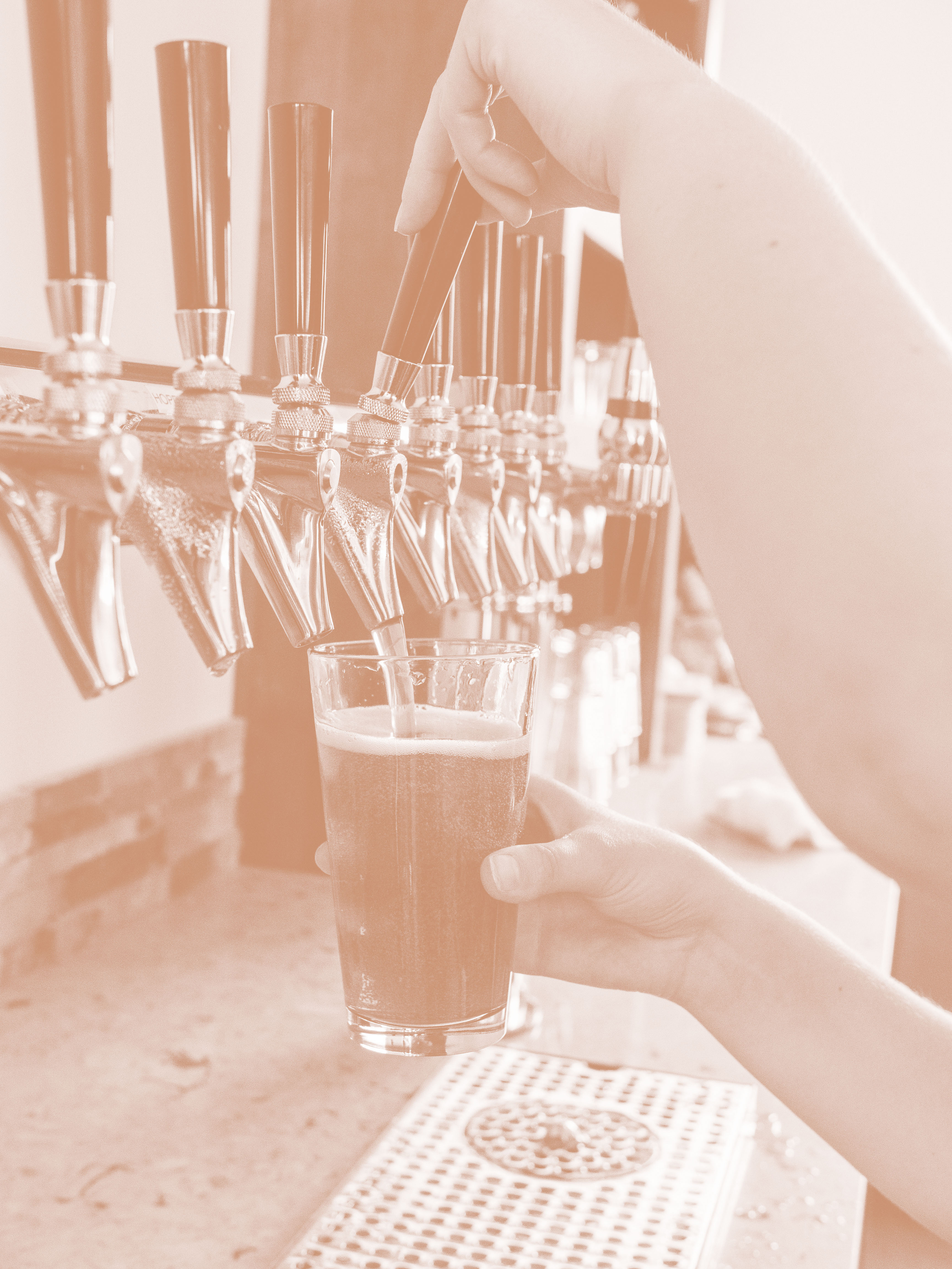
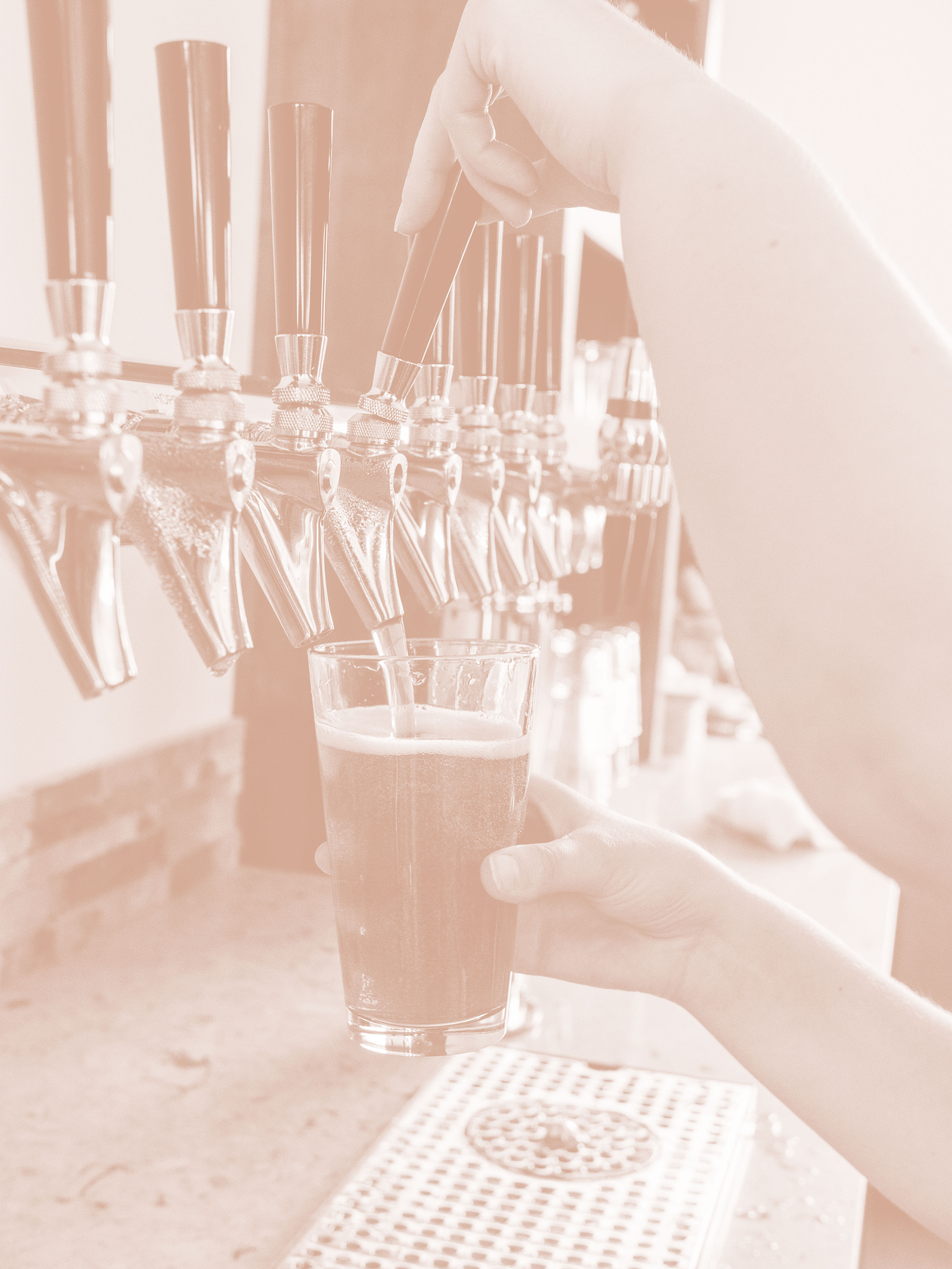
clean up files for deployment

diff --git a/js/script.js b/js/script.js
@@ -13,17 +13,16 @@ const $main = $('main');
 const $name = $('#name');
 const $address = $('#address');
 const $city = $('#city');
-const $type = $('#type');
+//const $type = $('#type');
 const $input = $('#input');
 const $submit = $('#submit');
 const $breweries = $('#breweries');
-const $modal = $('.modal');
 
 
 
 // Event listeners
 $submit.on('click', handleGetData);
-$breweries.on('click', 'article', handleClick);
+// $breweries.on('click', 'article', handleClick);
 
 
 
@@ -32,7 +31,7 @@ $breweries.on('click', 'article', handleClick);
 function handleGetData(event) {
     event.preventDefault();
     userInput = $input.val();
-    brewType = $type.val();
+    //brewType = $type.val();
     if(!userInput) return;
     // $.ajax(BASE_URL + userInput + '&by_type=' + brewType)
 
@@ -48,7 +47,9 @@ function handleGetData(event) {
         //     <h3 id="name">Sorry, can't find a brewery in this city. Try again. Maybe you should open one here?</h3>
         //     </article>
         //     `);
-        //     return
+        //     render();
+        //     $input.val('');
+
         // }
 
         render();
@@ -60,7 +61,7 @@ function handleGetData(event) {
 
 function generateUI() {
     return breweryInfo.map(function(brewery){
-        
+        // skip over listings that have no street address to not include breweries not open yet
         if(brewery.street){
         return `
             <article data-url="${brewery.url}" class="location">    
@@ -74,36 +75,36 @@ function generateUI() {
         
     }
 
-    function handleClick() {
-        console.log(this);
+    // function handleClick() {
+    //     console.log(this);
         
 
-        console.log('url: ,', breweryInfo);
+    //     console.log('url: ,', breweryInfo);
 
-        $modal.html(breweryInfo.map(function(brewery){
-            return `
-                <article data-url="${brewery.url}" class="location">    
-                <h3 id="name">${brewery.name}</h3>
-                <p id="address">${brewery.street}</p>
-                <p id="city">${brewery.city}</p>
-                </article>
-                `;
-            }));
-        // return breweryInfo.map(function(brewery){
-        //     return `
-        //     <p id="city">${brewery.city}</p>
-        //     `;
-        //     $modal.modal();
+    //     $modal.html(breweryInfo.map(function(brewery){
+    //         return `
+    //             <article data-url="${brewery.url}" class="location">    
+    //             <h3 id="name">${brewery.name}</h3>
+    //             <p id="address">${brewery.street}</p>
+    //             <p id="city">${brewery.city}</p>
+    //             </article>
+    //             `;
+    //         }));
+    //     // return breweryInfo.map(function(brewery){
+    //     //     return `
+    //     //     <p id="city">${brewery.city}</p>
+    //     //     `;
+    //     //     $modal.modal();
 
-            //$name.text(brewery.name);
-            //$moves.text(`Moves: ${pokemonDetail.moves.length}`);
-            //$abilities.text(`Abilities: ${pokemonDetail.abilities.length}`);
+    //         //$name.text(brewery.name);
+    //         //$moves.text(`Moves: ${pokemonDetail.moves.length}`);
+    //         //$abilities.text(`Abilities: ${pokemonDetail.abilities.length}`);
 
 
-           // });
-        //alert(url.brewery.name);
-        //handleGetData(url);
-    }
+    //        // });
+    //     //alert(url.brewery.name);
+    //     //handleGetData(url);
+    // }
         
     function render() {
         console.log('Brewery info: ', breweryInfo);

diff --git a/css/style.css b/css/style.css
@@ -1,3 +1,7 @@
+:root {
+    --light-copy-color: rgb(232, 213, 204);
+}
+
 * {
     box-sizing: border-box;
     margin: 0;
@@ -7,8 +11,7 @@ body {
     display: flex;
     flex-direction: column;
     height: 100vh;
-
-    font-family: 'Source Sans Pro', sans-serif; 
+    font-family: 'Source Sans Pro', sans-serif;
     font-weight: 600;
 }
 
@@ -17,22 +20,18 @@ header {
     display: flex;
     flex-direction: column;
     background-color: tan;
-    /* background-color: rgb(100,100,100); */
     background-color: black;
-    color: rgb(232,213,204);
-
+    color: var(--light-copy-color);
     align-items: flex-start;
     justify-content: center;
     padding: 20px 0 20px 0;
 
 }
-#head-content {
+
+.head-content {
     margin-left: 25px;
 }
-.sub-head {
-    font-style: italic;
-    font-size: 200;
-}
+
 
 h1 {
     padding: 5px 0 5px 0;
@@ -43,16 +42,18 @@ main {
     flex-direction: row;
     flex-wrap: wrap;
     flex-grow: 1;
-    background-image: url("../images/beerduo45.jpg");
+    background-image: url("../images/beerduotone.jpg");
     background-size: cover;
     background-position: center;
-    
 
-    /* background-color: coral; */
 }
 
 form {
     margin: 15px 0 15px 25px;
+}
+
+form #input {
+    margin-right: 10px;
 }
 
 img {
@@ -61,13 +62,14 @@ img {
     top: 0;
     right: 0;
 }
- #breweries {
-     display: flex;
-     flex-wrap: wrap;
-     justify-content: center;
-     align-items: center;
 
- }
+#breweries {
+    display: flex;
+    flex-wrap: wrap;
+    justify-content: center;
+    align-items: center;
+
+}
 
 .location {
     display: flex;
@@ -78,71 +80,30 @@ img {
     width: 300px;
     margin: 15px;
     padding-bottom: 15px;
-    border-bottom: 1px solid rgba(0,0,0,0.2);
-
-    /* border-bottom: 1px solid rgb(212,167,146); */
+    border-bottom: 1px solid rgba(0, 0, 0, 0.2);
     text-align: center;
-    /* border: 1px solid gray;
-    border-radius: 10px;
-    box-shadow: 1px 1px 8px gray;
-    background-color: rgba(255,255,255,0.65);  */
-    /* background-color: white; */
-    /* opacity: 0.7; */
 
 }
 
-
-
 footer {
-    /* height: 50px; */
     display: flex;
     align-items: center;
     justify-content: space-between;
     padding: 10px 0;
-    /* background-color: rgb(100,100,100); */
     background-color: black;
-    color: rgb(232,213,204);
+    color: var(--light-copy-color);
     font-size: 15px;
 }
 
-footer > p {
+footer>p {
     margin: 0 25px;
 
 }
 
-#modal {
-    text-transform: capitalize;
-    line-height: 30px;
-    font-size: 20px;
-}
-
-/* font-family: 'Gloria Hallelujah', cursive;
-font-family: 'Source Sans Pro', sans-serif; */
 @media only screen and (max-width: 768px) {
-  .location {
-      height: 75px;
-  }
-  #info input{
-    font-size: 18px;;
-}
-
-    
-}
-
-@media only screen and (min-width: 768px) {
-    header {
-        height: 125px;
-        font-size: 1.75em;
-    
+    .location {
+        height: 100px;
     }
-    form #info {
-        font-size: 55px;
-        color: blue;
-    }
-
-    /* .location{
-        font-size: 17px;
-    } */
-
-    
 }
+
+@media only screen and (min-width: 768px) {}

diff --git a/index.html b/index.html
@@ -8,42 +8,33 @@
     <link
         href="https://fonts.googleapis.com/css2?family=Epilogue:ital,wght@1,400;1,800&family=Source+Sans+Pro:wght@300;400;600&display=swap"
         rel="stylesheet">
-    <link rel="stylesheet" href="https://cdnjs.cloudflare.com/ajax/libs/jquery-modal/0.9.1/jquery.modal.min.css" />
-    <!-- Local CSS -->
+
+        <!-- Local CSS -->
     <link rel="stylesheet" href="./css/style.css">
+
     <!-- jQuery -->
     <script src="https://code.jquery.com/jquery-3.5.1.min.js"
         integrity="sha256-9/aliU8dGd2tb6OSsuzixeV4y/faTqgFtohetphbbj0=" crossorigin="anonymous"></script>
-    <script src="https://cdnjs.cloudflare.com/ajax/libs/jquery-modal/0.9.1/jquery.modal.min.js"></script>
 
     <!-- Local JavaScript -->
     <script defer src="./js/script.js"></script>
+
     <title>brewery finder</title>
 </head>
 
 <body>
     <header>
-        <h1 id="head-content">brewery-finder</h1>
-        <p id="head-content" class="sub-head">Looking for a local brewery?</p>
+        <h1 class="head-content">brewery-finder</h1>
+        <p class="head-content" class="sub-head">Looking for a local brewery?</p>
     </header>
     <section>
         <form>
             <input id="input" type="text" placeholder="Enter a city">
-            <label for="brewery-type">Choose type of brewery:</label>
-            <select name="brewery-type" id="type">
-                <option value="micro">Micro</option>
-                <option value="brewpub">Brew Pub</option>
-                <option value="regional">Regional</option>
-
-
-            </select>
             <input id="submit" type="submit" placeholder="Find">
         </form>
     </section>
     <main title="pouring beer at a brewery">
         <section id="breweries">
-           
-
         </section>
 
     </main>
